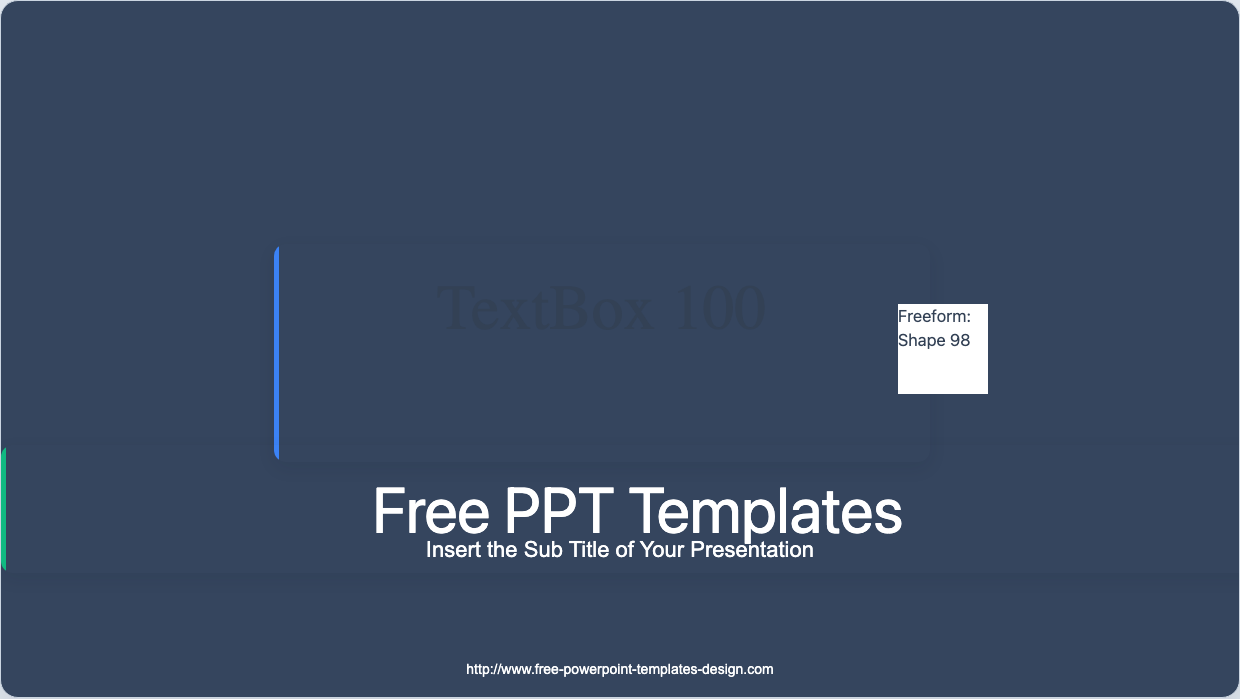
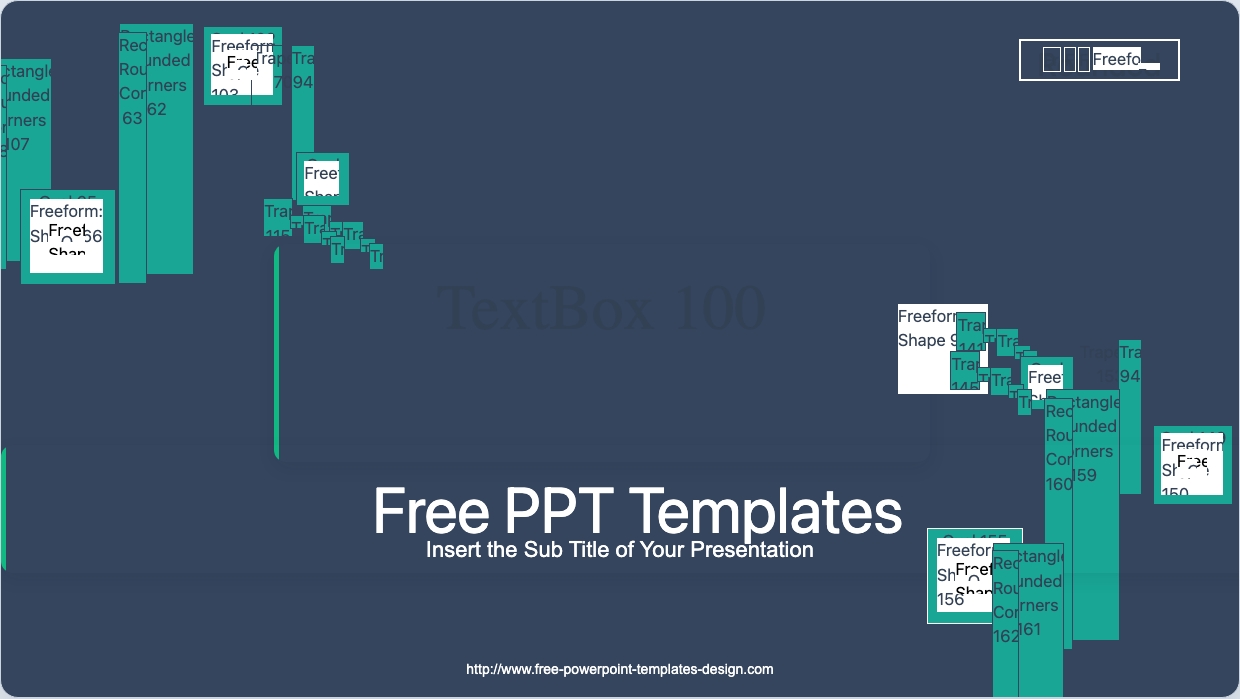
Teach the PPTX parser to see grouped shapes and refresh corpus screenshots
The sample decks rely heavily on nested group shapes for decorative structure,
so the fidelity wave could not progress while the parser only saw top-level
shapes and pictures. This stage adds grouped-shape transform propagation,
locks it with a regression fixture, and refreshes the sample screenshot evidence
so the corpus report reflects the richer scene extraction.

Constraint: Sample screenshot evidence must be regenerated after scene-graph changes so the corpus report stays trustworthy
Constraint: Group-shape support must preserve existing PPTX parser behavior for top-level shapes and media
Rejected: Keep group traversal out of the parser and fake decorations in the example | sample template structure would remain fundamentally invisible to the library
Rejected: Ignore screenshot artifact refresh after parser changes | visual evidence would lag behind the actual scene model
Confidence: medium
Scope-risk: moderate
Reversibility: clean
Directive: When PPTX scene extraction changes, refresh the ppt-sample screenshot artifacts in the same stage before judging visual progress
Tested: npx vitest run tests/pptx-shape-transform.test.ts tests/opc-and-parsers.test.ts; npm run typecheck; npm run lint; npm run quality:ppt-sample-screenshots; git diff --check
Not-tested: Full repo verification suite after the grouped-shape stage

Changed region(s): [[0.0, 0.03, 0.3065, 0.6609], [0.7355, 0.4206, 1.0, 1.0], [0.8274, 0.0601, 0.95, 0.1202]]

diff --git a/tests/fixture-builders.ts b/tests/fixture-builders.ts
@@ -252,6 +252,57 @@ export function createPptxFixtureWithLeadingExtendedPropertiesRelationship(): Ui
   }));
 }
 
+export function createGroupedPptxFixture(): Uint8Array {
+  return zipSync(encodedEntries({
+    '[Content_Types].xml': `<?xml version="1.0" encoding="UTF-8"?>
+<Types xmlns="http://schemas.openxmlformats.org/package/2006/content-types">
+  <Default Extension="rels" ContentType="application/vnd.openxmlformats-package.relationships+xml"/>
+  <Default Extension="xml" ContentType="application/xml"/>
+  <Override PartName="/ppt/presentation.xml" ContentType="application/vnd.openxmlformats-officedocument.presentationml.presentation.main+xml"/>
+  <Override PartName="/ppt/slides/slide1.xml" ContentType="application/vnd.openxmlformats-officedocument.presentationml.slide+xml"/>
+</Types>`,
+    '_rels/.rels': `<?xml version="1.0" encoding="UTF-8"?>
+<Relationships xmlns="http://schemas.openxmlformats.org/package/2006/relationships">
+  <Relationship Id="rId1" Type="http://schemas.openxmlformats.org/officeDocument/2006/relationships/officeDocument" Target="ppt/presentation.xml"/>
+</Relationships>`,
+    'ppt/presentation.xml': `<?xml version="1.0" encoding="UTF-8"?>
+<p:presentation xmlns:p="http://schemas.openxmlformats.org/presentationml/2006/main" xmlns:r="http://schemas.openxmlformats.org/officeDocument/2006/relationships">
+  <p:sldSz cx="9144000" cy="6858000"/>
+  <p:sldIdLst><p:sldId id="256" r:id="rId1"/></p:sldIdLst>
+</p:presentation>`,
+    'ppt/_rels/presentation.xml.rels': `<?xml version="1.0" encoding="UTF-8"?>
+<Relationships xmlns="http://schemas.openxmlformats.org/package/2006/relationships">
+  <Relationship Id="rId1" Type="http://schemas.openxmlformats.org/officeDocument/2006/relationships/slide" Target="slides/slide1.xml"/>
+</Relationships>`,
+    'ppt/slides/slide1.xml': `<?xml version="1.0" encoding="UTF-8"?>
+<p:sld xmlns:p="http://schemas.openxmlformats.org/presentationml/2006/main" xmlns:a="http://schemas.openxmlformats.org/drawingml/2006/main">
+  <p:cSld>
+    <p:spTree>
+      <p:grpSp>
+        <p:nvGrpSpPr><p:cNvPr id="2" name="Grouped"/></p:nvGrpSpPr>
+        <p:grpSpPr>
+          <a:xfrm>
+            <a:off x="1000" y="2000"/>
+            <a:ext cx="4000" cy="6000"/>
+            <a:chOff x="100" y="200"/>
+            <a:chExt cx="2000" cy="3000"/>
+          </a:xfrm>
+        </p:grpSpPr>
+        <p:sp>
+          <p:nvSpPr><p:cNvPr id="3" name="Grouped Title"/></p:nvSpPr>
+          <p:spPr>
+            <a:xfrm><a:off x="600" y="700"/><a:ext cx="800" cy="900"/></a:xfrm>
+            <a:prstGeom prst="rect"><a:avLst/></a:prstGeom>
+          </p:spPr>
+          <p:txBody><a:bodyPr/><a:p><a:r><a:t>Grouped text</a:t></a:r></a:p></p:txBody>
+        </p:sp>
+      </p:grpSp>
+    </p:spTree>
+  </p:cSld>
+</p:sld>`
+  }));
+}
+
 export function createPptxFixtureWithFooterUrlTitle(): Uint8Array {
   return zipSync(encodedEntries({
     '[Content_Types].xml': `<?xml version="1.0" encoding="UTF-8"?>

diff --git a/tests/pptx-shape-transform.test.ts b/tests/pptx-shape-transform.test.ts
@@ -4,7 +4,7 @@ import { openPackage } from '@ooxml/core';
 import { parsePptx } from '@ooxml/pptx';
 import { renderOfficeDocumentToHtml } from '@ooxml/render';
 
-import { createTransformedPptxFixture } from './fixture-builders';
+import { createGroupedPptxFixture, createTransformedPptxFixture } from './fixture-builders';
 
 describe('pptx richer shape metadata', () => {
   it('parses text and picture transforms into shape metadata', async () => {
@@ -25,5 +25,12 @@ describe('pptx richer shape metadata', () => {
     expect(html).toContain('data-cx="3000"');
     expect(html).toContain('data-media-uri="/ppt/media/image1.png"');
     expect(html).toContain('data-x="500"');
+  });
+
+  it('parses grouped shapes into slide-level coordinates', async () => {
+    const presentation = parsePptx(await openPackage(createGroupedPptxFixture()));
+    const groupedShape = presentation.slides[0]?.shapes.find((shape) => shape.name === 'Grouped Title');
+
+    expect(groupedShape?.transform).toEqual({ x: 2000, y: 3000, cx: 1600, cy: 1800 });
   });
 });
